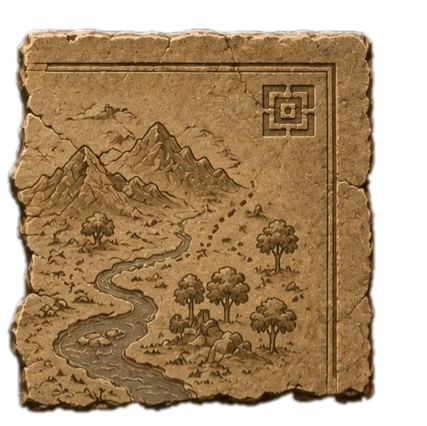
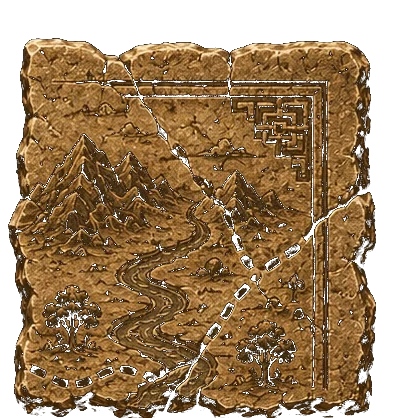
Update collection tablet to nine pieces

diff --git a/index.html b/index.html
@@ -11,7 +11,7 @@
   <link rel="manifest" href="manifest.webmanifest" />
   <link rel="apple-touch-icon" href="assets/icon-192.png" />
   <link rel="stylesheet" href="assets/vendor/leaflet-1.9.4.css" />
-  <link rel="stylesheet" href="styles.css?v=44" />
+  <link rel="stylesheet" href="styles.css?v=45" />
   <script src="assets/vendor/html5-qrcode-2.3.8.min.js"></script>
   <script src="assets/vendor/leaflet-1.9.4.min.js"></script>
   <script
@@ -19,7 +19,7 @@
     defer
   ></script>
   <script src="supabase-config.js?v=1" defer></script>
-  <script src="app.js?v=43" defer></script>
+  <script src="app.js?v=44" defer></script>
 </head>
 
 <body data-active-view="home">
@@ -481,7 +481,7 @@
           <div class="eyebrow">Ancient Map</div>
           <h1>Stone Tablet</h1>
         </div>
-        <span class="collection-count" id="collectionCount">0 of 6 fragments</span>
+        <span class="collection-count" id="collectionCount">0 of 9 fragments</span>
       </section>
       <section class="card artifact-puzzle-card">
         <span class="artifact-puzzle-lock" aria-hidden="true">
@@ -495,13 +495,13 @@
           </p>
         </div>
         <div class="artifact-puzzle-progress">
-          <strong id="artifactPuzzleText">0 of 6 tablet fragments recovered</strong>
+          <strong id="artifactPuzzleText">0 of 9 tablet fragments recovered</strong>
           <div
             class="progress-track"
             role="progressbar"
             aria-label="Stone tablet progress"
             aria-valuemin="0"
-            aria-valuemax="6"
+            aria-valuemax="9"
             aria-valuenow="0"
           >
             <span id="artifactPuzzleBar"></span>
@@ -516,7 +516,7 @@
         <div class="tablet-card-heading">
           <div>
             <div class="eyebrow">Recovered Map</div>
-            <h2>The Six-Stone Map</h2>
+            <h2>The Nine-Stone Map</h2>
           </div>
           <span class="tablet-signal">
             <svg><use href="#icon-sparkle"></use></svg>
@@ -529,9 +529,9 @@
             role="img"
             aria-labelledby="tabletTitle tabletDescription"
           >
-            <span id="tabletTitle" class="sr-only">Six-piece stone treasure map</span>
+            <span id="tabletTitle" class="sr-only">Nine-piece stone treasure map</span>
             <span id="tabletDescription" class="sr-only">
-              A greyed-out map holds six locked positions. Each recovered stone
+              A greyed-out map holds nine locked positions. Each recovered stone
               returns in full color and fits into its matching place.
             </span>
             <div class="tablet-piece locked" data-tablet-piece="0">
@@ -566,6 +566,24 @@
             </div>
             <div class="tablet-piece locked" data-tablet-piece="5">
               <img src="assets/tablet-fragment-6.webp" alt="" />
+              <span class="tablet-piece-lock" aria-hidden="true">
+                <svg><use href="#icon-lock"></use></svg>
+              </span>
+            </div>
+            <div class="tablet-piece locked" data-tablet-piece="6">
+              <img src="assets/tablet-fragment-7.webp" alt="" />
+              <span class="tablet-piece-lock" aria-hidden="true">
+                <svg><use href="#icon-lock"></use></svg>
+              </span>
+            </div>
+            <div class="tablet-piece locked" data-tablet-piece="7">
+              <img src="assets/tablet-fragment-8.webp" alt="" />
+              <span class="tablet-piece-lock" aria-hidden="true">
+                <svg><use href="#icon-lock"></use></svg>
+              </span>
+            </div>
+            <div class="tablet-piece locked" data-tablet-piece="8">
+              <img src="assets/tablet-fragment-9.webp" alt="" />
               <span class="tablet-piece-lock" aria-hidden="true">
                 <svg><use href="#icon-lock"></use></svg>
               </span>
@@ -607,7 +625,7 @@
           <div class="eyebrow">Final Signal Sealed</div>
           <h2>Complete the stone map</h2>
           <p id="finalHuntLockedMessage">
-            Recover all six fragments, then assemble the tablet to activate its
+            Recover all nine fragments, then assemble the tablet to activate its
             special scanner.
           </p>
         </div>
@@ -668,7 +686,7 @@
           These controls do not change player progress or sync anything to the
           cloud.
         </p>
-        <strong id="tabletPreviewStatus">0 of 6 fragments visible</strong>
+        <strong id="tabletPreviewStatus">0 of 9 fragments visible</strong>
         <div class="tablet-admin-controls">
           <button id="tabletPreviewViewHunt" class="secondary" type="button">
             Preview Daily Hunt
@@ -1200,7 +1218,7 @@
     aria-labelledby="tabletAssemblyHeading"
   >
     <div class="overlay-card tablet-assembly-card">
-      <div class="found-label">Six Fragments United</div>
+      <div class="found-label">Nine Fragments United</div>
       <h2 id="tabletAssemblyHeading">The Stone Tablet Is Complete</h2>
       <div class="assembled-tablet-reveal">
         <img

diff --git a/app.js b/app.js
@@ -169,7 +169,7 @@ const artifactCatalog = [
   {
     id: "lucky-key",
     label: "Tablet Fragment I",
-    subtitle: "The first recovered section of the ancient map",
+    subtitle: "Top-left tablet section of the ancient map",
     rarity: "common",
     icon: "icon-map",
     image: "assets/tablet-fragment-1.webp"
@@ -177,7 +177,7 @@ const artifactCatalog = [
   {
     id: "signal-compass",
     label: "Tablet Fragment II",
-    subtitle: "The second recovered section of the ancient map",
+    subtitle: "Top-center tablet section of the ancient map",
     rarity: "rare",
     icon: "icon-map",
     image: "assets/tablet-fragment-2.webp"
@@ -185,7 +185,7 @@ const artifactCatalog = [
   {
     id: "emerald-lantern",
     label: "Tablet Fragment III",
-    subtitle: "The third recovered section of the ancient map",
+    subtitle: "Top-right tablet section of the ancient map",
     rarity: "rare",
     icon: "icon-map",
     image: "assets/tablet-fragment-3.webp"
@@ -193,7 +193,7 @@ const artifactCatalog = [
   {
     id: "secret-map",
     label: "Tablet Fragment IV",
-    subtitle: "The fourth recovered section of the ancient map",
+    subtitle: "Middle-right tablet section of the ancient map",
     rarity: "epic",
     icon: "icon-map",
     image: "assets/tablet-fragment-4.webp"
@@ -201,7 +201,7 @@ const artifactCatalog = [
   {
     id: "vault-crown",
     label: "Tablet Fragment V",
-    subtitle: "The fifth recovered section of the ancient map",
+    subtitle: "Bottom-right tablet section of the ancient map",
     rarity: "legendary",
     icon: "icon-map",
     image: "assets/tablet-fragment-5.webp"
@@ -209,10 +209,34 @@ const artifactCatalog = [
   {
     id: "star-relic",
     label: "Tablet Fragment VI",
-    subtitle: "The final recovered section of the ancient map",
+    subtitle: "Bottom-center tablet section of the ancient map",
     rarity: "legendary",
     icon: "icon-map",
     image: "assets/tablet-fragment-6.webp"
+  },
+  {
+    id: "river-rune",
+    label: "Tablet Fragment VII",
+    subtitle: "Bottom-left tablet section of the ancient map",
+    rarity: "epic",
+    icon: "icon-map",
+    image: "assets/tablet-fragment-7.webp"
+  },
+  {
+    id: "tower-sigil",
+    label: "Tablet Fragment VIII",
+    subtitle: "Middle-left tablet section of the ancient map",
+    rarity: "rare",
+    icon: "icon-map",
+    image: "assets/tablet-fragment-8.webp"
+  },
+  {
+    id: "vault-door",
+    label: "Tablet Fragment IX",
+    subtitle: "The final center-door section of the ancient map",
+    rarity: "legendary",
+    icon: "icon-map",
+    image: "assets/tablet-fragment-9.webp"
   }
 ];
 const artifactIds = new Set(artifactCatalog.map(artifact => artifact.id));
@@ -2978,7 +3002,7 @@ function renderCollection() {
   elements.artifactPuzzleMessage.textContent = tabletAssembled
     ? "The stone tablet is assembled and its hidden route is active."
     : puzzleComplete
-      ? "All six fragments are recovered. Assemble them to reveal the route."
+      ? "All nine fragments are recovered. Assemble them to reveal the route."
       : "Each recovered stone locks into its matching place on the map.";
   elements.artifactPuzzleHint.textContent = tabletAssembled
     ? vaultKeyRecovered
@@ -3018,7 +3042,7 @@ function renderCollection() {
   elements.finalHuntUnlocked.classList.toggle("hidden", !tabletAssembled);
   elements.finalHuntLockedMessage.textContent = puzzleComplete
     ? "All fragments are present. Press and hold the assembly control to reveal the final route."
-    : "Recover all six fragments, then assemble the tablet to activate its special scanner.";
+    : "Recover all nine fragments, then assemble the tablet to activate its special scanner.";
   elements.finalHuntTitle.textContent = vaultKeyRecovered
     ? "Vault Key I has been secured"
     : "The final route has appeared";

diff --git a/styles.css b/styles.css
@@ -2824,11 +2824,11 @@ button:disabled {
 .collections-screen .tablet-card {
   position: absolute;
   z-index: 8;
-  top: 645px;
-  left: 126px;
+  top: 505px;
+  left: 150px;
   overflow: visible;
-  width: 948px;
-  height: 830px;
+  width: 900px;
+  height: 990px;
   margin: 0;
   padding: 0;
   border: 0;
@@ -2854,7 +2854,7 @@ button:disabled {
 
 .collections-screen .stone-tablet-map {
   width: 100%;
-  height: 800px;
+  height: 100%;
   margin: 0;
   border: 0;
   border-radius: 0;
@@ -2875,6 +2875,7 @@ button:disabled {
 }
 
 .collections-screen .assembled-tablet-image {
+  object-fit: contain;
   filter:
     saturate(1.05)
     brightness(0.98)
@@ -3961,7 +3962,7 @@ button.map-toolbar-button svg {
 .stone-tablet-map {
   position: relative;
   width: min(100%, 620px);
-  aspect-ratio: 1280 / 853;
+  aspect-ratio: 1;
   margin: 0 auto;
   overflow: hidden;
   border: 1px solid rgba(35, 42, 39, 0.24);
@@ -3984,29 +3985,45 @@ button.map-toolbar-button svg {
   transform-origin: center;
 }
 
-.tablet-piece:nth-of-type(3n + 1) {
+.tablet-piece {
+  width: 33.333333%;
+  height: 33.333333%;
+}
+
+.tablet-piece[data-tablet-piece="0"],
+.tablet-piece[data-tablet-piece="7"],
+.tablet-piece[data-tablet-piece="6"] {
   left: 0;
-  width: 33.28125%;
 }
 
-.tablet-piece:nth-of-type(3n + 2) {
-  left: 33.28125%;
-  width: 33.359375%;
+.tablet-piece[data-tablet-piece="1"],
+.tablet-piece[data-tablet-piece="8"],
+.tablet-piece[data-tablet-piece="5"] {
+  left: 33.333333%;
 }
 
-.tablet-piece:nth-of-type(3n) {
-  left: 66.640625%;
-  width: 33.359375%;
+.tablet-piece[data-tablet-piece="2"],
+.tablet-piece[data-tablet-piece="3"],
+.tablet-piece[data-tablet-piece="4"] {
+  left: 66.666667%;
 }
 
-.tablet-piece:nth-of-type(-n + 3) {
+.tablet-piece[data-tablet-piece="0"],
+.tablet-piece[data-tablet-piece="1"],
+.tablet-piece[data-tablet-piece="2"] {
   top: 0;
-  height: 49.941383%;
 }
 
-.tablet-piece:nth-of-type(n + 4) {
-  top: 49.941383%;
-  height: 50.058617%;
+.tablet-piece[data-tablet-piece="7"],
+.tablet-piece[data-tablet-piece="8"],
+.tablet-piece[data-tablet-piece="3"] {
+  top: 33.333333%;
+}
+
+.tablet-piece[data-tablet-piece="6"],
+.tablet-piece[data-tablet-piece="5"],
+.tablet-piece[data-tablet-piece="4"] {
+  top: 66.666667%;
 }
 
 .tablet-piece img {
@@ -4014,7 +4031,7 @@ button.map-toolbar-button svg {
   inset: 0;
   width: 100%;
   height: 100%;
-  object-fit: fill;
+  object-fit: contain;
   opacity: 0;
   filter:
     drop-shadow(0 5px 6px rgba(0, 0, 0, 0.42))

diff --git a/service-worker.js b/service-worker.js
@@ -1,6 +1,6 @@
 "use strict";
 
-const CACHE_NAME = "gotcha-mvp-v55";
+const CACHE_NAME = "gotcha-mvp-v56";
 const APP_SHELL = [
   "./",
   "./index.html",
@@ -9,9 +9,9 @@ const APP_SHELL = [
   "./admin.css?v=4",
   "./admin.js?v=4",
   "./admin.webmanifest",
-  "./styles.css?v=44",
+  "./styles.css?v=45",
   "./supabase-config.js?v=1",
-  "./app.js?v=43",
+  "./app.js?v=44",
   "./hunts.json",
   "./manifest.webmanifest",
   "./images/background.png",
@@ -48,6 +48,9 @@ const APP_SHELL = [
   "./assets/tablet-fragment-4.webp",
   "./assets/tablet-fragment-5.webp",
   "./assets/tablet-fragment-6.webp",
+  "./assets/tablet-fragment-7.webp",
+  "./assets/tablet-fragment-8.webp",
+  "./assets/tablet-fragment-9.webp",
   "./assets/vendor/html5-qrcode-2.3.8.min.js",
   "./assets/vendor/leaflet-1.9.4.min.js",
   "./assets/vendor/leaflet-1.9.4.css",
